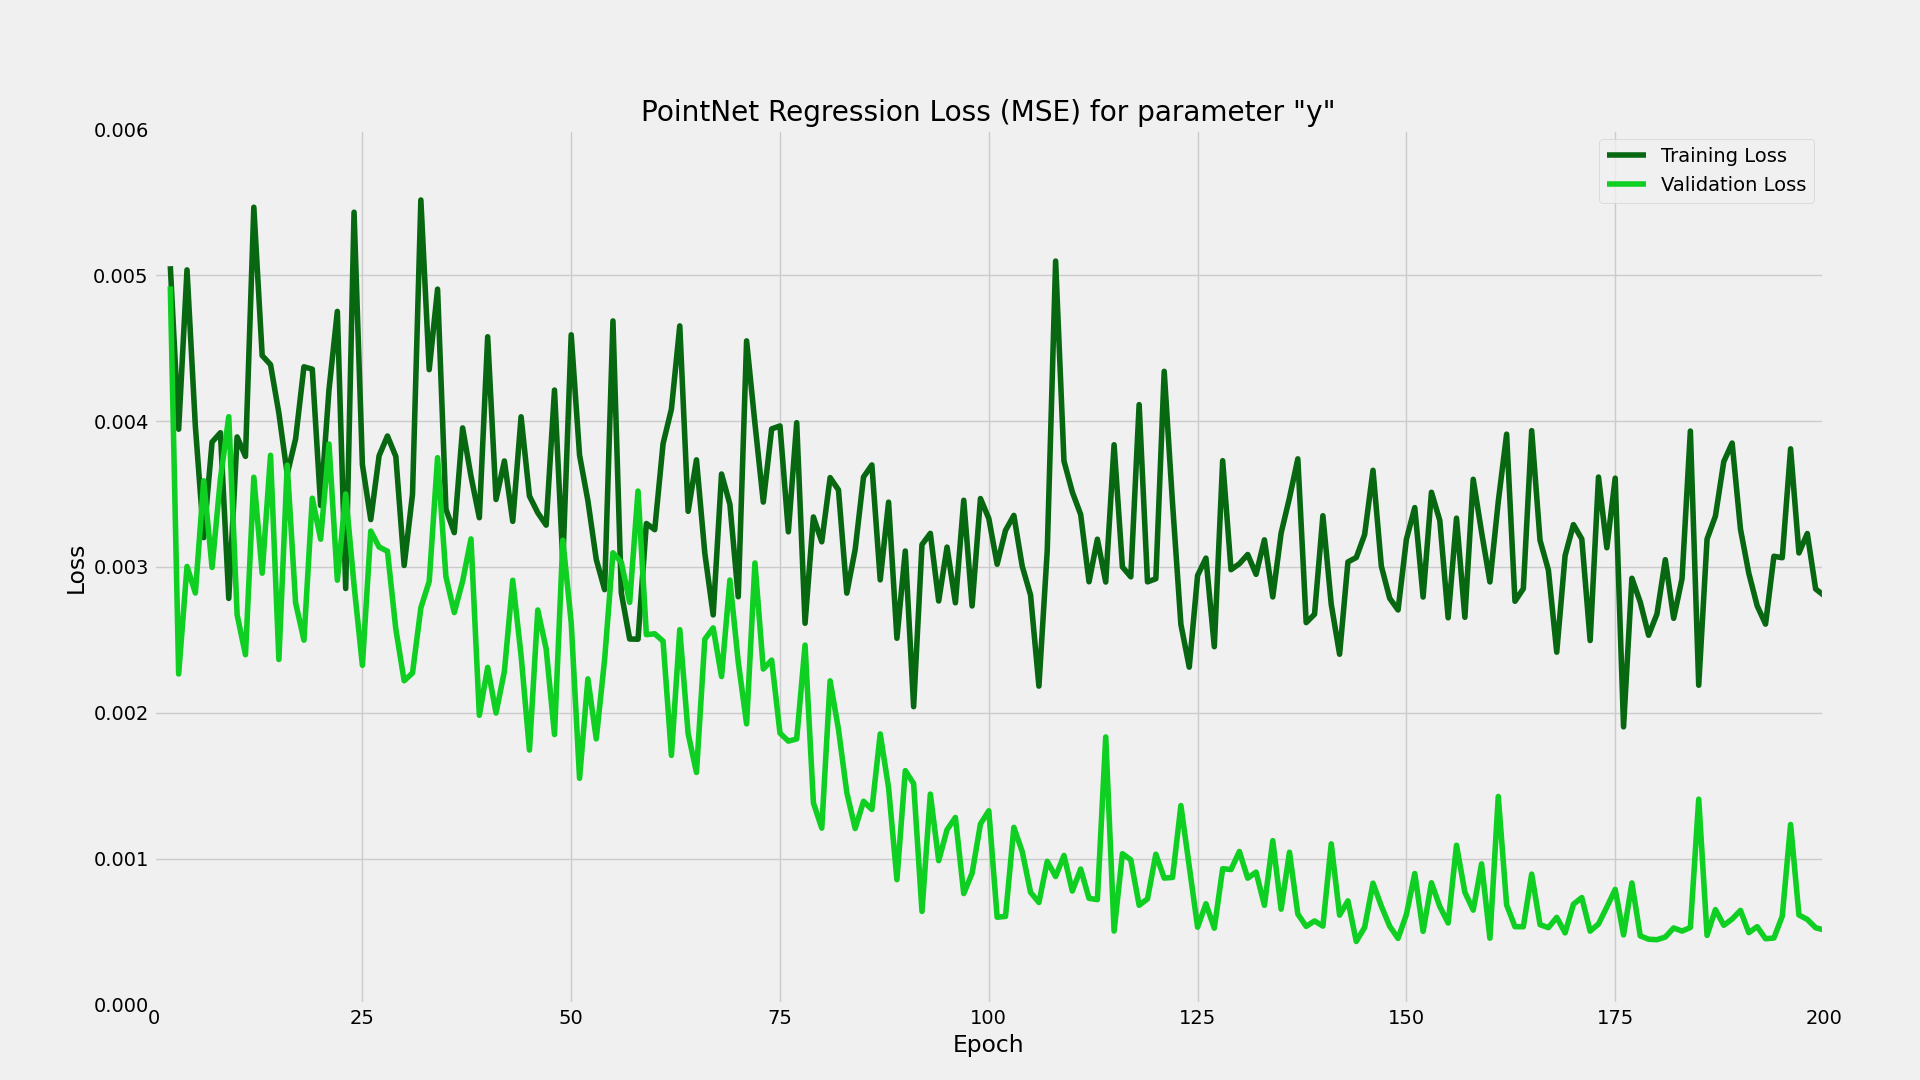
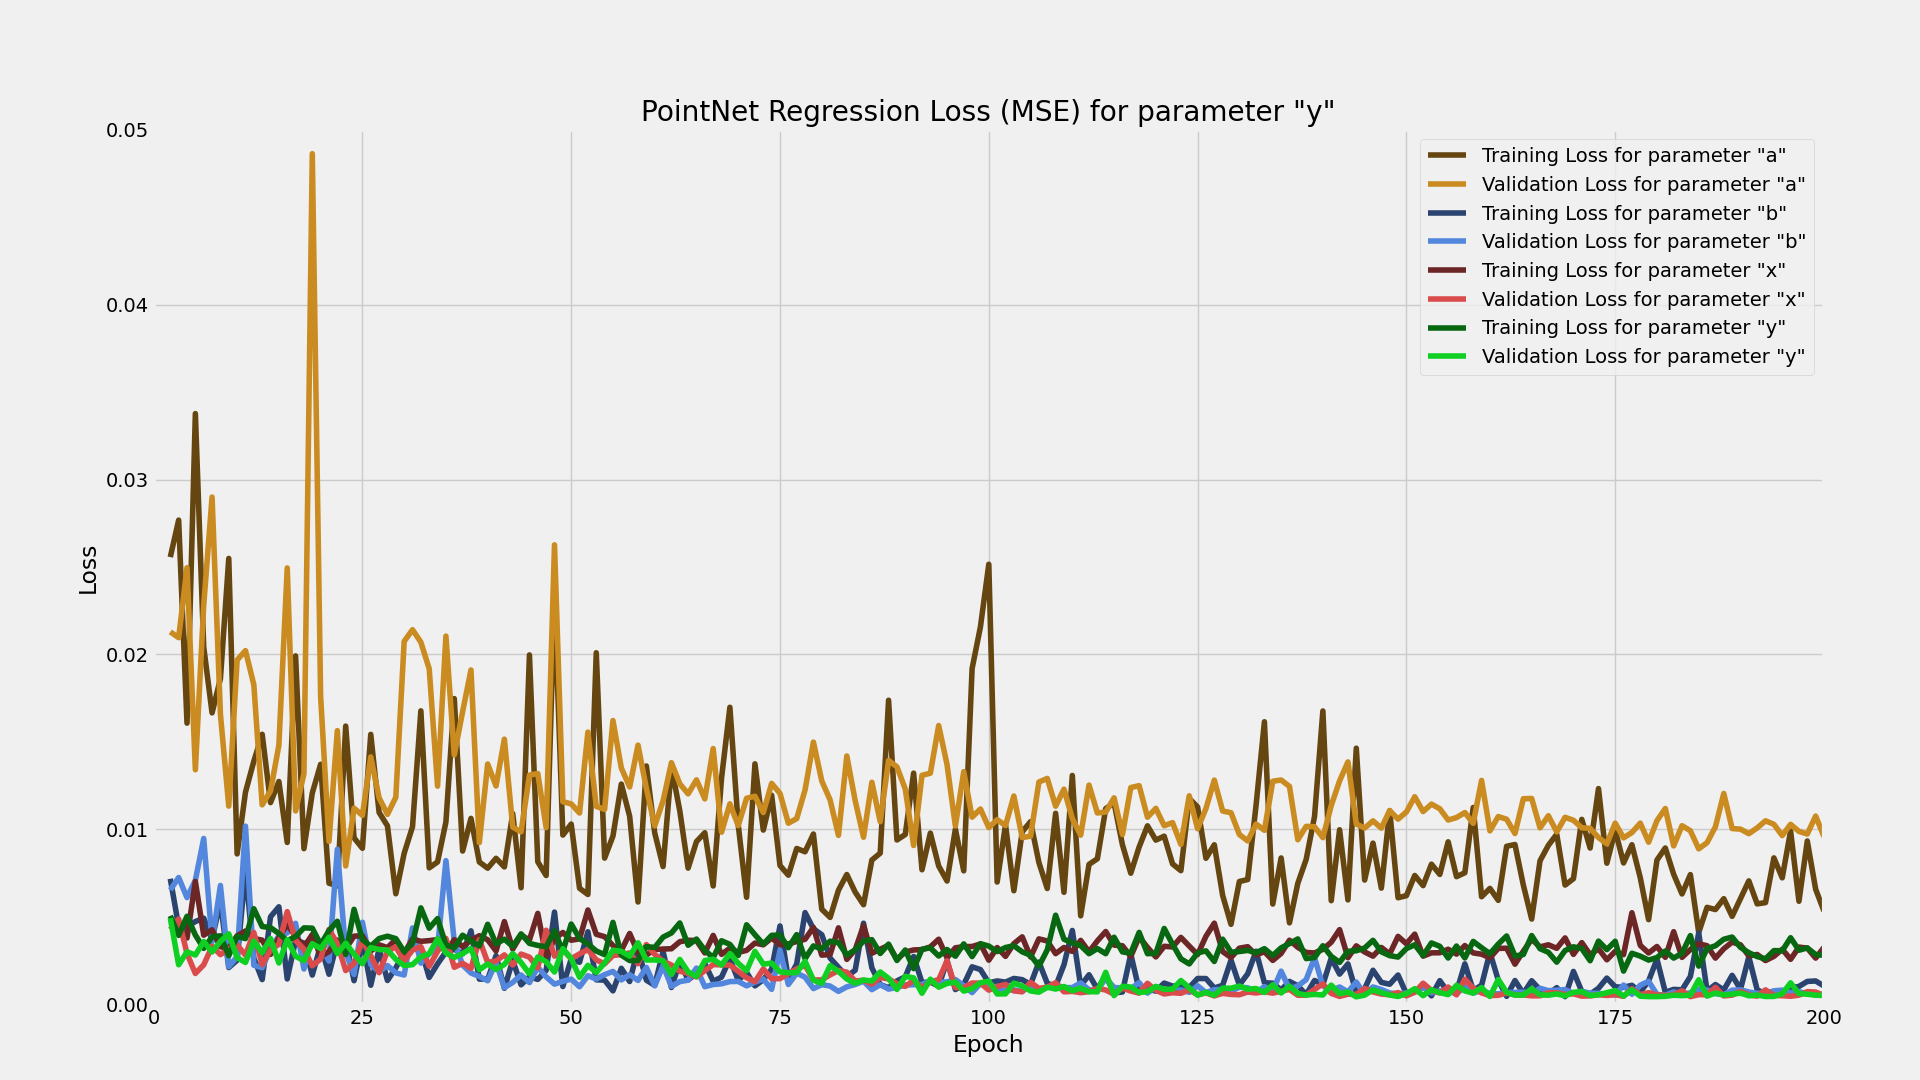
graph-abxy-train-valid-loss.py works decently and simulates wandb graphs...

Changed region(s): [[0.0312, 0.1528, 0.9688, 0.9472], [0.75, 0.1222, 0.9375, 0.3361], [0.0312, 0.9167, 0.0625, 0.9472]]

diff --git a/graphs/graph-abxy-train-valid-loss.py b/graphs/graph-abxy-train-valid-loss.py
@@ -2,6 +2,7 @@
 
 import sys
 
+import matplotlib
 import matplotlib.pyplot as plt
 import numpy as np
 
@@ -9,12 +10,14 @@ from pathlib import Path
 
 from colors import colors, hex_to_rgba, select_color
 
+'''
 if len(sys.argv) < 2:
 	print(f'\n\tUsage: {sys.argv[0]} <stem>\n')
 	sys.exit()
 
 stem = Path(sys.argv[1]).stem
 param = stem.split('-')[0]
+'''
 
 limits = {
 		'a': (0, 0.050),
@@ -23,7 +26,7 @@ limits = {
 		'y': (0, 0.006),
 }
 
-
+'''
 print(f'Processing {stem}.txt for parameter {param}')
 
 #stem = 'n_petals-train-valid-loss'
@@ -36,6 +39,7 @@ epochs = data[:, 0]
 
 # Extract loss values from the second to nth columns
 losses = data[:, 1:]
+'''
 
 # Set fivethirtyeight style
 plt.style.use('fivethirtyeight')
@@ -46,27 +50,184 @@ fig, ax = plt.subplots()
 labels = ['Training Loss', 'Validation Loss']
 
 # Plot each loss column
+'''
 for i in range(losses.shape[1]):
     ax.plot(epochs, losses[:, i], label=labels[i], color=select_color(param, i))
+'''
+
+fg_color = 'red'
+bg_color = 'blue'
+
+ax.tick_params(color=fg_color, labelcolor=hex_to_rgba(colors['ticks']))
+ax.tick_params(axis='x', which='major', bottom=True)
+
+
+fn_suffix = '-train-valid-loss.txt'
+paramlist = ['a', 'b', 'x', 'y']
+#paramlist = ['a', 'b']
+#paramlist = ['x', 'y']
+max_val   = -1
+
+color_list = []
+
+for param in paramlist:
+	fn =  f'{param}{fn_suffix}'
+	print(f'Processing {fn} for parameter {param}')
+
+	# Read data from text file
+	data = np.genfromtxt(fn, skip_header=1)
+
+	# Extract epoch values from the first column
+	epochs = data[:, 0]
+
+	# Extract loss values from the second to nth columns
+	losses = data[:, 1:]
+
+	for i in range(losses.shape[1]):
+		max_val = np.max(losses) if max_val < np.max(losses) else max_val
+		label = [f'"{param}" {run.title()} Loss' for run in ['Training', 'Validation']][i]
+		color = select_color(param, i)
+		img   = ax.plot(epochs, losses[:, i], label=label, color=color)
+
+		# set imshow outline
+		for spine in img[0].axes.spines.values():
+			spine.set_edgecolor(hex_to_rgba(colors['axis']))    
+
+		color_list.append(color)
+
+
+
+#kfunc = lambda x, pos: f'{x} K - {pos}'
+'''
+kfunc = lambda x, _: f'{x} K'
+kformatter = matplotlib.ticker.FuncFormatter(kfunc)
+ax.xaxis.set_major_formatter(kformatter)
+'''
+
+ax.spines['top'].set_visible(False)
+ax.spines['right'].set_visible(False)
+#ax.spines['bottom'].set_visible(False)
+ax.spines['left'].set_visible(False)
+
+ax.tick_params(axis='x', colors=hex_to_rgba(colors['grid']), size=15, width=2, pad=15, direction='inout', labelsize=32)		# size = tick length
+ax.tick_params(axis='y', colors=hex_to_rgba(colors['grid']), size=0 , width=2, pad=15, direction='inout', labelsize=32)
+
+for ticklabel in plt.gca().get_xticklabels():
+    ticklabel.set_color(hex_to_rgba(colors['labels']))
+for ticklabel in plt.gca().get_yticklabels():
+    ticklabel.set_color(hex_to_rgba(colors['labels']))
+
+#ticks_loc = ax.get_xticks().tolist()
+#ax.set_xticklabels([x for x in ticks_loc])
+
+#ax.set_xticklabels(hex_to_rgba(colors['labels']), rotation=270)
+
+'''
+# Currently, there are no minor ticks,
+#   so trying to make them visible would have no effect
+ax.xaxis.get_ticklocs(minor=True)     # []
+ax.yaxis.get_ticklocs(minor=True)     # []
+
+# Initialize minor ticks
+ax.minorticks_on()
+
+# Now minor ticks exist and are turned on for both axes
+
+# Turn off x-axis minor ticks
+#ax.xaxis.set_tick_params(which='minor', bottom=False)
+ax.xaxis.set_tick_params(which='both', bottom=False)
+#ax.yaxis.set_tick_params(which='minor', bottom=False)
+ax.yaxis.set_tick_params(which='both', bottom=False)
+'''
+
+
+
+
+plt.grid(axis='x', which='major', color=hex_to_rgba(colors['background']), linestyle=':', linewidth=0.5)
+plt.grid(axis='y', which='major', color=hex_to_rgba(colors['grid']), linewidth=1.5)
+
+titlefont = {'fontname': 'Source Sans Pro'}
 
 # Set plot title
-plt.title(f'PointNet Regression Loss (MSE) for parameter "{param}"')
+#plt.title(f'PointNet Regression Loss (MSE) for parameter "{param}"', color=hex_to_rgba(colors['title']), fontsize=32, **titlefont)
+plt.title(f'Train/Validation Losses', color=hex_to_rgba(colors['title']), fontsize=48, fontweight='normal', **titlefont)
 
 # Set x-axis label
-plt.xlabel('Epoch')
+plt.xlabel('Epoch', color=hex_to_rgba(colors['title']))
 
 # Set y-axis label
-plt.ylabel('Loss')
+plt.ylabel('Loss', color=hex_to_rgba(colors['title']))
+
+# Set plot background color
+ax.patch.set_facecolor(hex_to_rgba(colors['background']))
 
 # Set x and y axis limits
 plt.xlim(0, 200)
-plt.ylim(limits[param][0], limits[param][1])  # Update with your desired y-axis limits
+#plt.ylim(limits[param][0], limits[param][1])  # Update with your desired y-axis limits
+#plt.ylim(0., 0.05)  # Update with your desired y-axis limits
+plt.ylim(0., max_val + 0.01*max_val)
 
 # Add legend
-plt.legend()
+leg = plt.legend(labelcolor='linecolor', facecolor=hex_to_rgba(colors['background']), prop={'size': 32}, loc='upper right', ncol=2)
+
+'''
+for idx, text in enumerate(leg.get_texts()):
+    text.set_color(color_list[idx])
+'''
 
 fig.set_size_inches(19.2, 10.8)
-fig.savefig(stem + '.png', dpi=100)
+fig.savefig(f'{"".join(paramlist)}-train-valid-loss.png', dpi=100, bbox_inches='tight', facecolor=hex_to_rgba(colors['background']))
+
+
+
+
+
+
+'''
+cb = plt.colorbar(im)
+
+
+
+# set tick and ticklabel color
+im.axes.tick_params(color=fg_color, labelcolor=fg_color)
+
+# set imshow outline
+for spine in im.axes.spines.values():
+    spine.set_edgecolor(fg_color)    
+
+# COLORBAR
+# set colorbar label plus label color
+cb.set_label('colorbar label', color=fg_color)
+
+# set colorbar tick color
+cb.ax.yaxis.set_tick_params(color=fg_color)
+
+# set colorbar edgecolor 
+cb.outline.set_edgecolor(fg_color)
+
+# set colorbar ticklabels
+plt.setp(plt.getp(cb.ax.axes, 'yticklabels'), color=fg_color)
+
+fig.patch.set_facecolor(bg_color)    
+
+'''
+
+
+
+
+
+
+
+
+
+
+
+
+
+
+
+
+#plt.tight_layout()
 
 # Show the plot
 plt.show()

diff --git a/graphs/colors.py b/graphs/colors.py
@@ -1,0 +1,56 @@
+#!/usr/bin/env python3
+
+colors = {
+
+		'cls'        : 'a12864',
+		'angle'      : '0da3ee',
+		'n_petals'   : '229487',
+		'a'          : 'ca8b21',
+		'b'          : '5387dd',
+		'x'          : 'da4c4c',
+		'y'          : '0ecf22',
+		'title'      : '363a3d',
+		'grid'       : 'f2f2f4',
+		'labels'     : '6b6b76',
+		'axis'       : 'e6e6e9',
+		'ticks'      : 'e6e6e9',
+		'background' : 'ffffff',
+}
+
+def hex_to_rgba2(hex_string):							# Model B: claude-1
+    hex_string = hex_string.strip('#')
+    r, g, b = tuple(int(hex_string[i:i+2], 16) for i in (0, 2, 4))
+    a = 255
+    return r, g, b, a
+
+def hex_to_rgba(hex_str):							# Model B: claude-2.1
+    """Convert hex string to RGBA tuple for matplotlib"""
+    hex_str = hex_str.lstrip('#')
+    return tuple(int(hex_str[i:i+2], 16)/255 for i in (0, 2, 4)) + (1,)		# ok, this one works if you multiply each element of the tuple by 256... but it sucks
+										# EDIT: `ValueError: RGBA values should be within 0-1 range`... Ha! Claude-2.1 wins again!
+
+def test_hex_to_rgba2():
+	#r, g, b, a = hex_to_rgba2(colors['cls'])				# 10561636 == 161, 40, 100
+	r, g, b, a = hex_to_rgba2(colors['angle'])				# 893934 == 13, 163, 238
+	print(f'{r}, {g}, {b}, {a}')						# 'aabbcc' == (0.6666.., 0.733, 0.8, 1)
+
+def test_hex_to_rgba():
+	hex_color = colors['angle']
+	rgba = hex_to_rgba(hex_color) 
+	print(f'{rgba = } - {rgba[0]}, {rgba[1]}, {rgba[2]}, {rgba[3]}')	# 'aabbcc' == (0.6666.., 0.733, 0.8, 1)
+
+def select_color(param, selector, debug=False):
+	if debug:
+		print(f'Received param {param}, selector {selector}')
+	rgba = hex_to_rgba(colors[param])
+	rgba_darker = tuple([c * 0.5 if c < 1. else c for c in rgba])
+	rgba_select = [rgba if selector == 1 else rgba_darker][0]
+	if debug:
+		print(f'{rgba = }')
+		print(f'{rgba_darker = }')
+		print(f'{rgba_select = }')
+	return rgba_select
+
+if __name__ == '__main__':
+	test_hex_to_rgba2()
+	test_hex_to_rgba()
